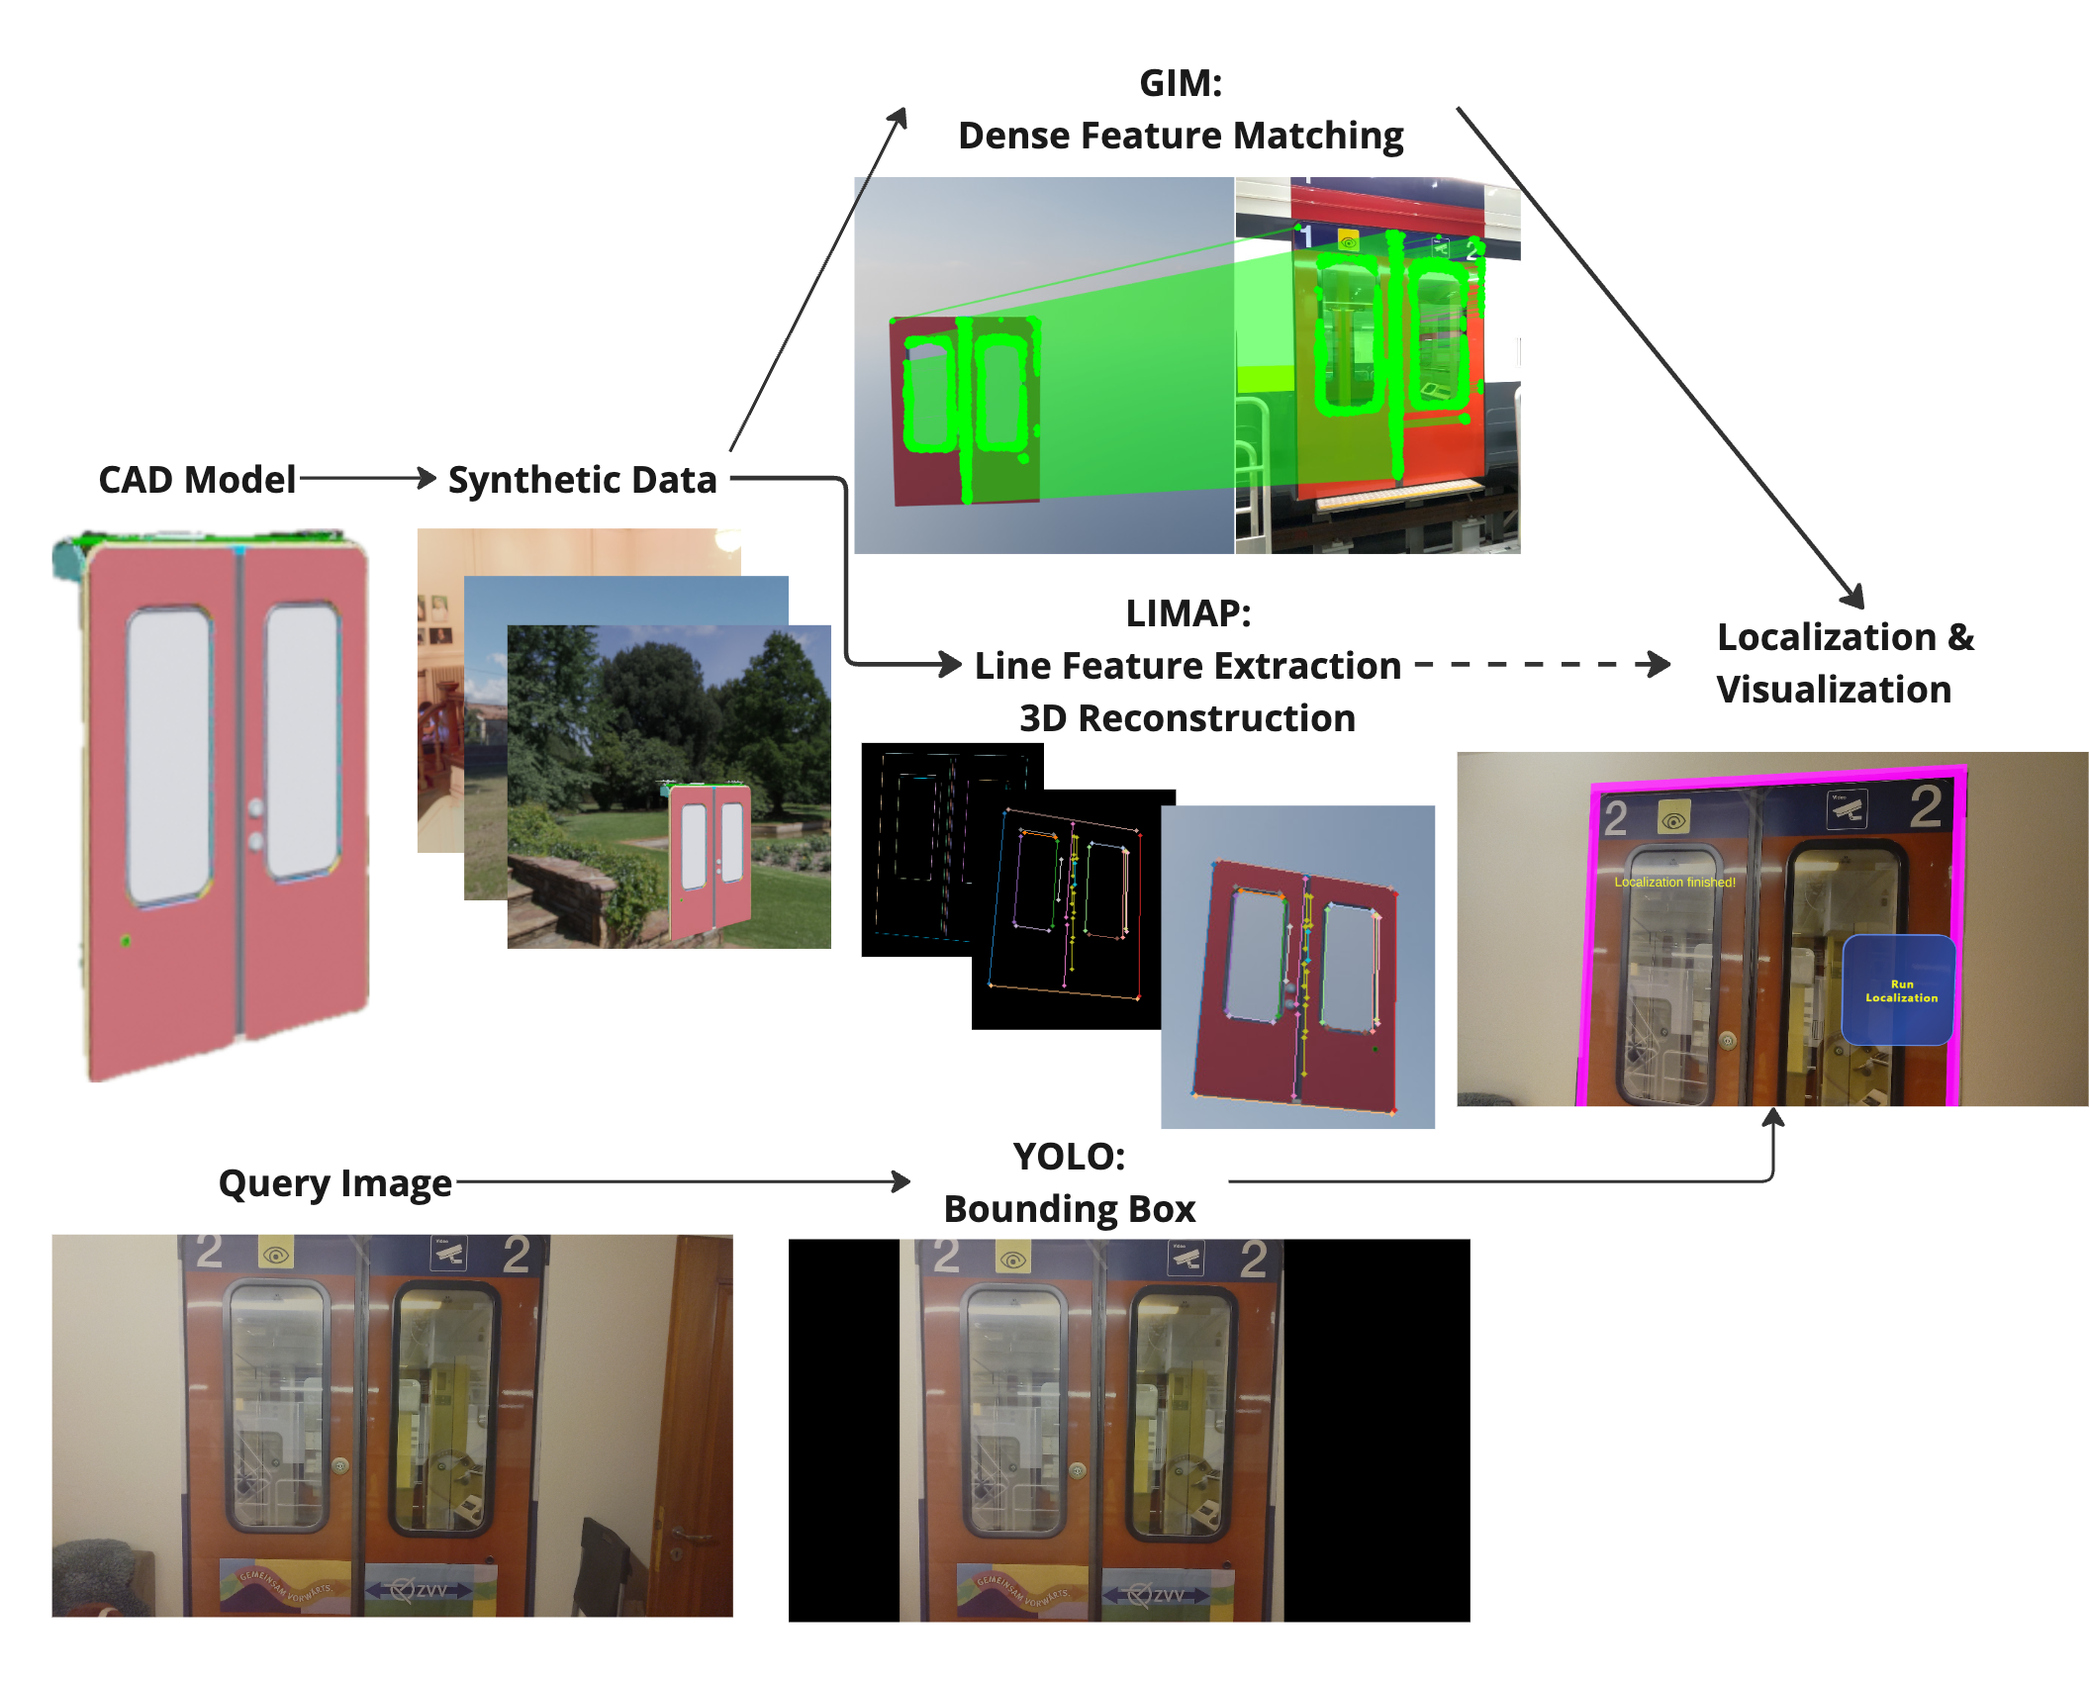
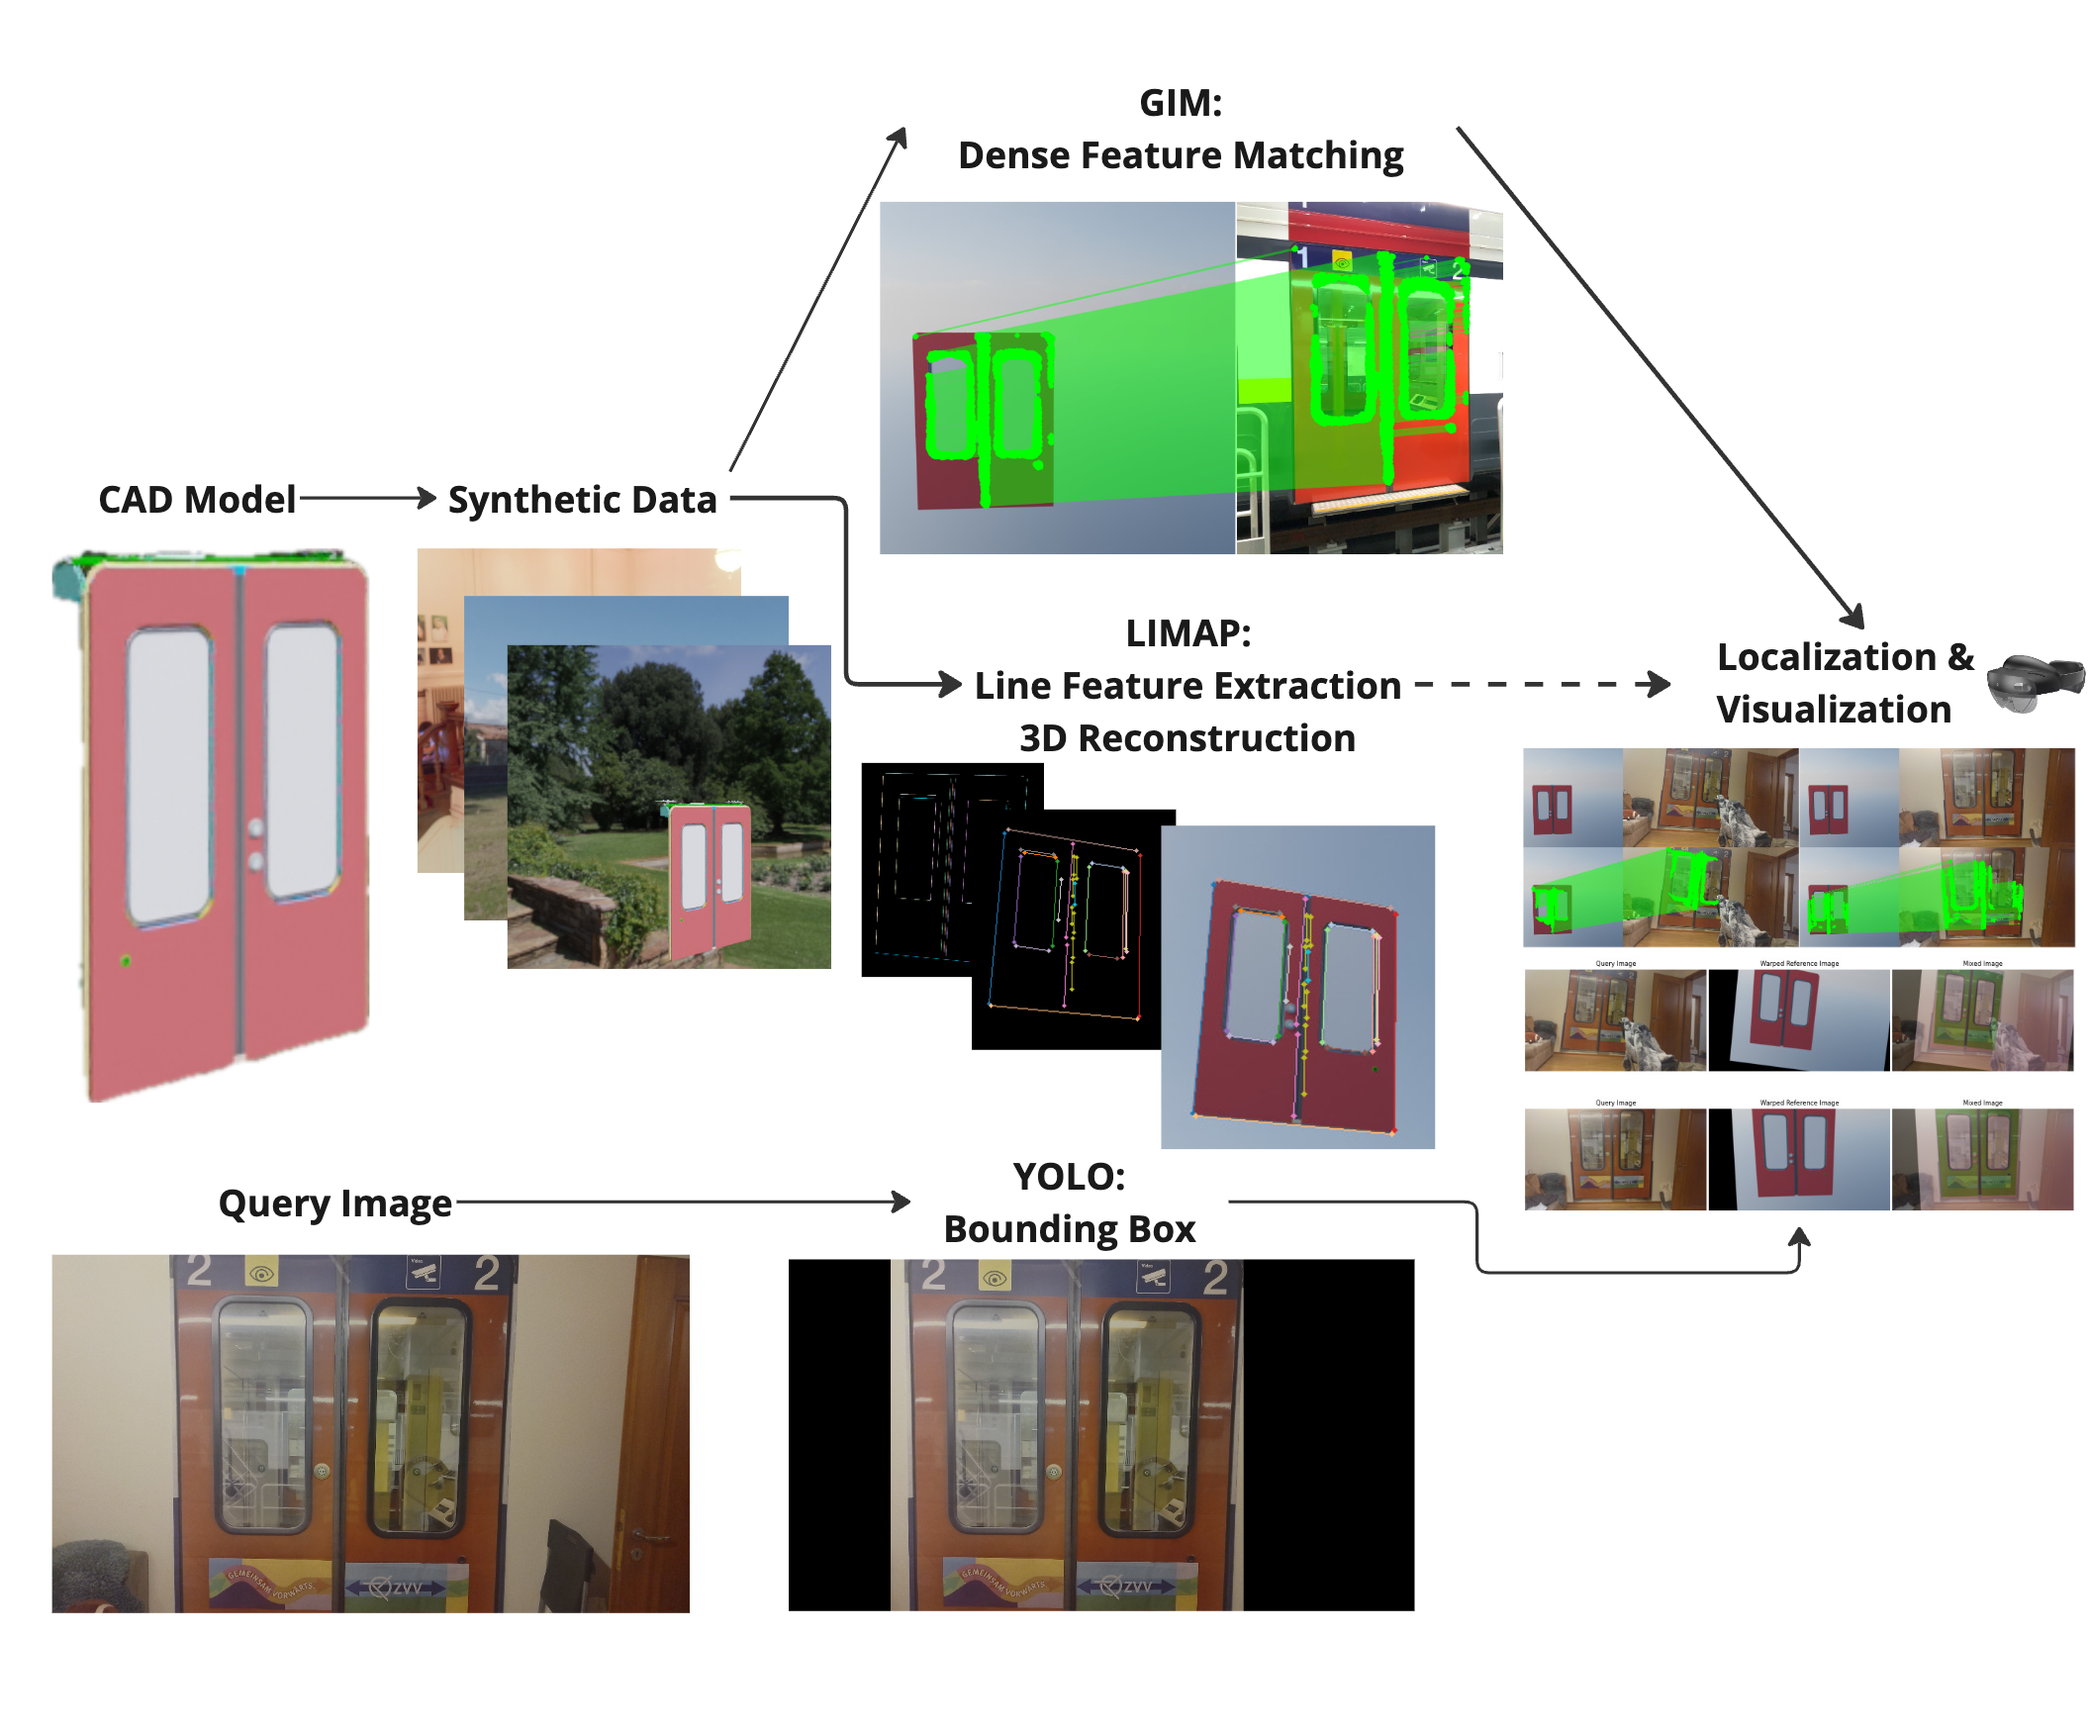
update hololens pic

diff --git a/app/page.tsx b/app/page.tsx
@@ -48,28 +48,38 @@ export default function Home() {
             image sequences from the HoloLens, we accurately localize the doors
             with high precision. We compared LiMAP and GIM for feature matching,
             evaluating their performance in complex environments. Our findings
-            show that combining these methods enhances pose estimation
-            robustness, providing an efficient solution for real-time
+            show that GIM provides an efficient solution for real-time
             localization of SBB doors in mixed reality applications.
           </p>
         </div>
         {/* pic */}
         <div className="flex justify-center w-full">
           <img
-            src="/course-showcase/pic/hololens1.png"
+            src="/course-showcase/pic/000128_Client0_rawImage_gim_dkm_match.png"
             alt="project overview"
-            className="flex-1 rounded-lg"
+            className="w-1/2"
+          />
+          <img
+            src="/course-showcase/pic/000128_Client1_rawImage_gim_dkm_match.png"
+            alt="project overview"
+            className="w-1/2"
           />
         </div>
         <div className="flex justify-center w-full">
           <img
-            src="/course-showcase/pic/hololens2.png"
+            src="/course-showcase/pic/000128_Client0_rawImage_gim_dkm_warp.png"
             alt="project overview"
-            className="flex-1 rounded-lg"
+            className="flex-1"
           />
         </div>
-
-        {/* videos from hololens */}
+        <div className="flex justify-center w-full">
+          <img
+            src="/course-showcase/pic/000128_Client1_rawImage_gim_dkm_warp.png"
+            alt="project overview"
+            className="flex-1"
+          />
+        </div>
+        {/* videos from hololens
         <div className="flex flex-wrap justify-between w-full max-w-1xl space-y-4 mt-5">
           <div className="flex justify-between w-full space-x-4">
             <video
@@ -83,7 +93,7 @@ export default function Home() {
               Your browser does not support the video tag.
             </video>
           </div>
-        </div>
+        </div> */}
 
         {/* pipeline*/}
         <div className="mt-8 w-full px-6 py-4">
@@ -207,6 +217,28 @@ export default function Home() {
             />
             <img
               src="/course-showcase/pic/out_1736_3.png"
+              alt="LiMAP"
+              className="w-1/3 "
+            />
+          </div>
+          <h4 className="text-xl font-bold text-gray-800 text-left py-5">
+            2D-3D Line Matching <span className="text-red-600">Without</span>{" "}
+            Bounding Box{" "}
+            <span className="text-yellow-600">in Synthetic Image</span>
+          </h4>
+          <div className="flex justify-center w-full">
+            <img
+              src="/course-showcase/pic/Screenshot294.png"
+              alt="LiMAP"
+              className="w-1/3 mr-1 "
+            />
+            <img
+              src="/course-showcase/pic/294_sketch.png"
+              alt="LiMAP"
+              className="w-1/3 mr-1"
+            />
+            <img
+              src="/course-showcase/pic/294.png"
               alt="LiMAP"
               className="w-1/3 "
             />
